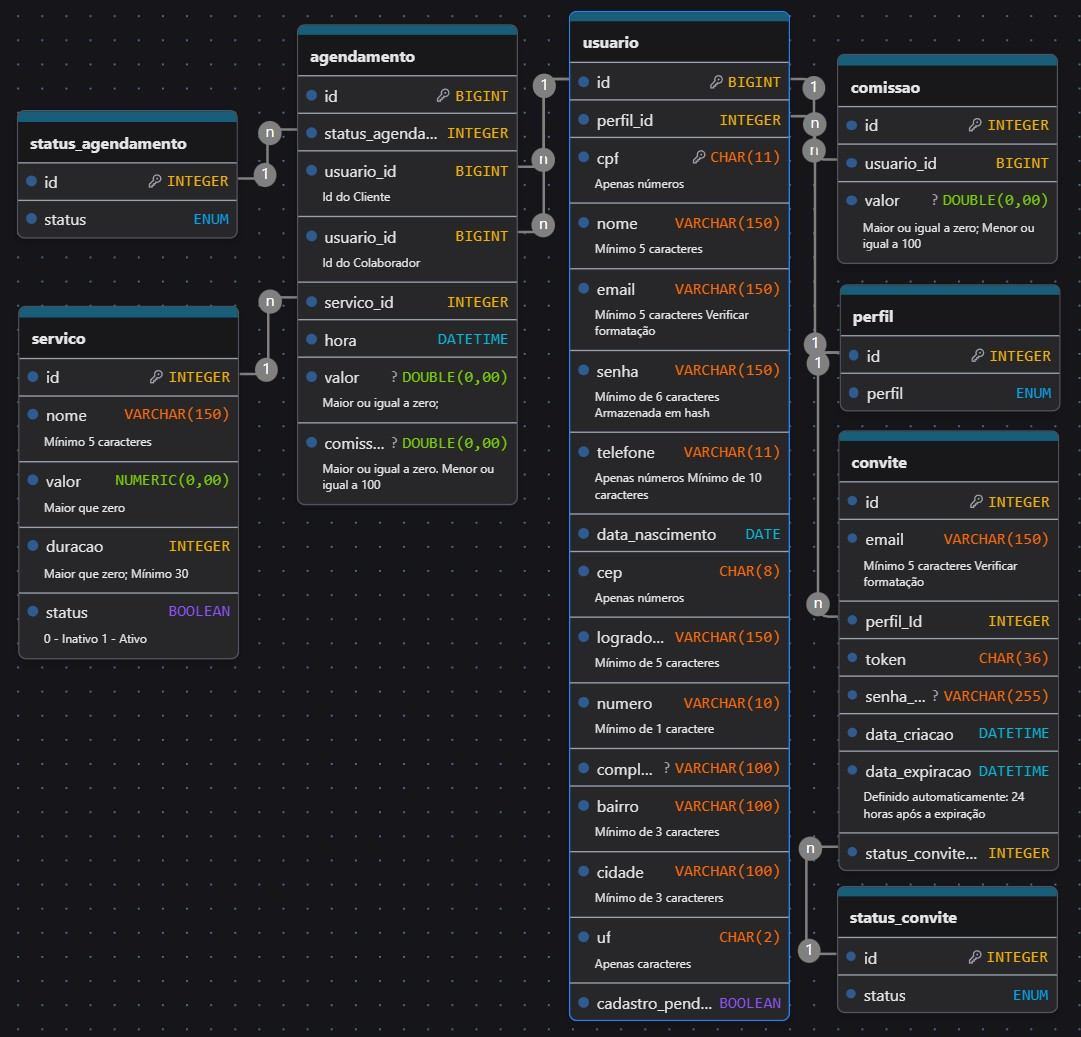
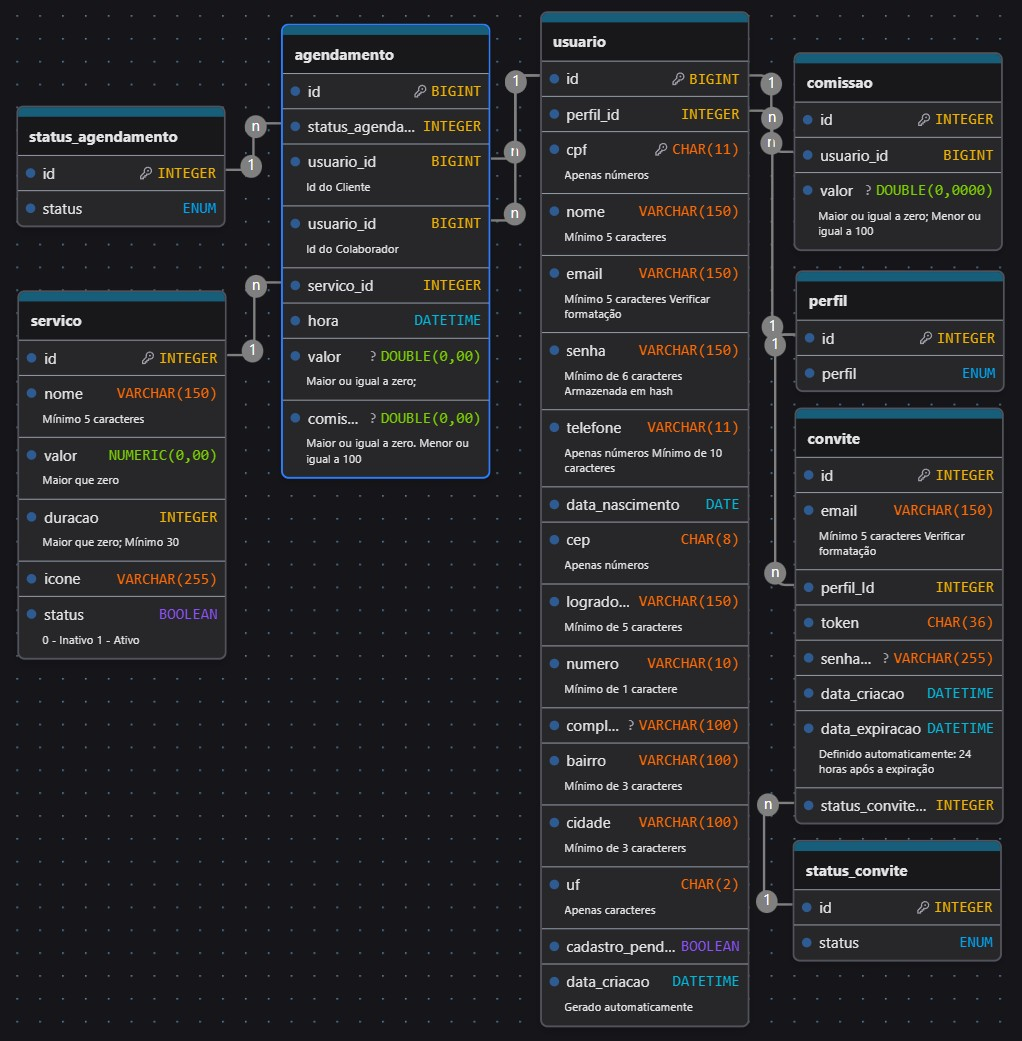
Inicia a implementação da API de Agendamentos

Changed region(s): [[0.0, 0.0, 1.0, 0.9875], [0.455, 0.0, 0.4853, 0.0309], [0.3943, 0.0, 0.4247, 0.0309]]

diff --git a/src/back/src/main/java/com/servify/backend/entity/Agendamento.java b/src/back/src/main/java/com/servify/backend/entity/Agendamento.java
@@ -1,0 +1,124 @@
+package com.servify.backend.entity;
+
+import java.math.BigDecimal;
+import java.time.LocalDateTime;
+
+import com.servify.backend.enums.AgendamentoStatus;
+
+import jakarta.persistence.Column;
+import jakarta.persistence.Entity;
+import jakarta.persistence.EnumType;
+import jakarta.persistence.Enumerated;
+import jakarta.persistence.GeneratedValue;
+import jakarta.persistence.GenerationType;
+import jakarta.persistence.Id;
+import jakarta.persistence.JoinColumn;
+import jakarta.persistence.ManyToOne;
+
+@Entity
+public class Agendamento {
+
+    @Id
+    @GeneratedValue(strategy = GenerationType.IDENTITY)
+    private Long id;
+
+    @Enumerated(EnumType.STRING)
+    @Column(nullable = false)
+    private AgendamentoStatus agendamentoStatus;
+
+    @ManyToOne
+    @JoinColumn(name = "cliente_id", nullable = false)
+    private Usuario cliente;
+
+    @ManyToOne
+    @JoinColumn(name = "colaborador_id", nullable = false)
+    private Usuario colaborador;
+
+    @ManyToOne
+    @JoinColumn(name = "servico_id", nullable = false)
+    private Servico servico;
+
+    @Column(nullable = false)
+    private LocalDateTime dataHora;
+
+    @Column(nullable = false, precision = 10, scale = 2)
+    private BigDecimal valor;
+
+    @Column(nullable = false, precision = 10, scale = 2)
+    private BigDecimal desconto;
+
+    @Column(nullable = false, precision = 5, scale = 4)
+    private BigDecimal comissao;
+
+    public Long getId() {
+        return id;
+    }
+
+    public void setId(Long id) {
+        this.id = id;
+    }
+
+    public AgendamentoStatus getAgendamentoStatus() {
+        return agendamentoStatus;
+    }
+
+    public void setAgendamentoStatus(AgendamentoStatus agendamentoStatus) {
+        this.agendamentoStatus = agendamentoStatus;
+    }
+
+    public Usuario getCliente() {
+        return cliente;
+    }
+
+    public void setCliente(Usuario cliente) {
+        this.cliente = cliente;
+    }
+
+    public Usuario getColaborador() {
+        return colaborador;
+    }
+
+    public void setColaborador(Usuario colaborador) {
+        this.colaborador = colaborador;
+    }
+
+    public Servico getServico() {
+        return servico;
+    }
+
+    public void setServico(Servico servico) {
+        this.servico = servico;
+    }
+
+    public LocalDateTime getDataHora() {
+        return dataHora;
+    }
+
+    public void setDataHora(LocalDateTime dataHora) {
+        this.dataHora = dataHora;
+    }
+
+    public BigDecimal getValor() {
+        return valor;
+    }
+
+    public void setValor(BigDecimal valor) {
+        this.valor = valor;
+    }
+
+    public BigDecimal getDesconto() {
+        return desconto;
+    }
+
+    public void setDesconto(BigDecimal desconto) {
+        this.desconto = desconto;
+    }
+
+    public BigDecimal getComissao() {
+        return comissao;
+    }
+
+    public void setComissao(BigDecimal comissao) {
+        this.comissao = comissao;
+    }
+}

diff --git a/src/back/src/main/java/com/servify/backend/service/AgendamentoService.java b/src/back/src/main/java/com/servify/backend/service/AgendamentoService.java
@@ -1,0 +1,67 @@
+package com.servify.backend.service;
+
+import java.time.LocalDate;
+import java.util.List;
+
+import com.servify.backend.constants.PerfilConstants;
+import com.servify.backend.dto.AgendamentoRequestDTO;
+import com.servify.backend.dto.AgendamentoResponseDTO;
+import com.servify.backend.entity.Servico;
+import com.servify.backend.entity.Usuario;
+import com.servify.backend.enums.AgendamentoStatus;
+import com.servify.backend.repository.AgendamentoRepository;
+import com.servify.backend.repository.ServicoRepository;
+import com.servify.backend.repository.UsuarioRepository;
+
+public class AgendamentoService {
+
+    private final AgendamentoRepository agendamentoRepository;
+    private final UsuarioRepository usuarioRepository;
+    private final ServicoRepository servicoRepository;
+
+    public AgendamentoService(AgendamentoRepository agendamentoRepository,
+            UsuarioRepository usuarioRepository,
+            ServicoRepository servicoRepository) {
+        this.agendamentoRepository = agendamentoRepository;
+        this.usuarioRepository = usuarioRepository;
+        this.servicoRepository = servicoRepository;
+    }
+
+    public AgendamentoResponseDTO criar(AgendamentoRequestDTO dto) {
+        Usuario cliente = usuarioRepository.findById(dto.clienteId())
+                .orElseThrow(() -> new RuntimeException("Cliente não encontrado"));
+
+        Usuario colaborador = usuarioRepository.findById(dto.colaboradorId())
+                .orElseThrow(() -> new RuntimeException("Colaborador não encontrado"));
+
+        if (colaborador.getPerfil().getId() != PerfilConstants.COLABORADOR) {
+            throw new RuntimeException("Usuário informado não é um colaborador");
+        }
+
+        Servico servico = servicoRepository.findById(dto.servicoId())
+                .orElseThrow(() -> new RuntimeException("Serviço não encontrado"));
+
+        return null;
+    }
+
+    public List<AgendamentoResponseDTO> listar(LocalDate inicio, LocalDate fim, Long clienteId,
+            Long colaboradorId, AgendamentoStatus status) {
+        // TODO Auto-generated method stub
+        throw new UnsupportedOperationException("Unimplemented method 'listar'");
+    }
+
+    public AgendamentoResponseDTO buscarPorId(Long id) {
+        // TODO Auto-generated method stub
+        throw new UnsupportedOperationException("Unimplemented method 'buscarPorId'");
+    }
+
+    public AgendamentoResponseDTO atualizar(Long id, AgendamentoRequestDTO dto) {
+        // TODO Auto-generated method stub
+        throw new UnsupportedOperationException("Unimplemented method 'atualizar'");
+    }
+
+    public void deletar(Long id) {
+        // TODO Auto-generated method stub
+        throw new UnsupportedOperationException("Unimplemented method 'deletar'");
+    }
+}

diff --git a/src/back/src/main/java/com/servify/backend/controller/AgendamentoController.java b/src/back/src/main/java/com/servify/backend/controller/AgendamentoController.java
@@ -1,0 +1,69 @@
+package com.servify.backend.controller;
+
+import org.springframework.web.bind.annotation.PostMapping;
+import org.springframework.web.bind.annotation.RequestBody;
+import org.springframework.web.bind.annotation.RequestMapping;
+import org.springframework.web.bind.annotation.RestController;
+
+import com.servify.backend.dto.AgendamentoRequestDTO;
+import com.servify.backend.dto.AgendamentoResponseDTO;
+import com.servify.backend.enums.AgendamentoStatus;
+import com.servify.backend.service.AgendamentoService;
+
+import jakarta.validation.Valid;
+
+import java.time.LocalDate;
+import java.util.List;
+
+import org.springframework.web.bind.annotation.DeleteMapping;
+import org.springframework.web.bind.annotation.GetMapping;
+import org.springframework.web.bind.annotation.RequestParam;
+import org.springframework.web.bind.annotation.PutMapping;
+import org.springframework.web.bind.annotation.PathVariable;
+
+@RestController
+@RequestMapping("/agendamentos")
+public class AgendamentoController {
+
+    private final AgendamentoService service;
+
+    public AgendamentoController(AgendamentoService service) {
+        this.service = service;
+    }
+
+    @PostMapping
+    public AgendamentoResponseDTO criar(@Valid @RequestBody AgendamentoRequestDTO dto) {
+        return service.criar(dto);
+    }
+
+    @GetMapping
+    public List<AgendamentoResponseDTO> listar(
+            @RequestParam(required = false) LocalDate inicio,
+            @RequestParam(required = false) LocalDate fim,
+            @RequestParam(required = false) Long clienteId,
+            @RequestParam(required = false) Long colaboradorId,
+            @RequestParam(required = false) AgendamentoStatus status) {
+
+        return service.listar(
+                inicio,
+                fim,
+                clienteId,
+                colaboradorId,
+                status);
+    }
+
+    @GetMapping("/{id}")
+    public AgendamentoResponseDTO buscar(@RequestParam Long id) {
+        return service.buscarPorId(id);
+    }
+
+    @PutMapping("/{id}")
+    public AgendamentoResponseDTO editar(@PathVariable Long id, @RequestBody AgendamentoRequestDTO dto) {
+        return service.atualizar(id, dto);
+    }
+
+    @DeleteMapping("/{id}")
+    public void deletar(@PathVariable Long id) {
+        service.deletar(id);
+    }
+}

diff --git a/src/back/src/main/java/com/servify/backend/dto/AgendamentoResponseDTO.java b/src/back/src/main/java/com/servify/backend/dto/AgendamentoResponseDTO.java
@@ -1,0 +1,32 @@
+package com.servify.backend.dto;
+
+import java.math.BigDecimal;
+import java.time.LocalDateTime;
+
+public record AgendamentoResponseDTO(
+
+        Long id,
+
+        String status,
+
+        Long clienteId,
+        String clienteNome,
+
+        Long colaboradorId,
+        String colaboradorNome,
+
+        Long servicoId,
+        String servicoNome,
+
+        LocalDateTime dataHora,
+
+        BigDecimal valor,
+
+        BigDecimal desconto,
+
+        BigDecimal valorFinal,
+
+        BigDecimal comissao
+
+) {
+}

diff --git a/src/back/src/main/java/com/servify/backend/dto/AgendamentoRequestDTO.java b/src/back/src/main/java/com/servify/backend/dto/AgendamentoRequestDTO.java
@@ -1,0 +1,22 @@
+package com.servify.backend.dto;
+
+import java.math.BigDecimal;
+import java.time.LocalDateTime;
+
+import jakarta.validation.constraints.DecimalMin;
+import jakarta.validation.constraints.NotNull;
+
+public record AgendamentoRequestDTO(
+
+        @NotNull Long clienteId,
+
+        @NotNull Long colaboradorId,
+
+        @NotNull Long servicoId,
+
+        @NotNull LocalDateTime dataHora,
+
+        @DecimalMin("0.00") BigDecimal desconto
+
+) {
+}

diff --git a/src/back/src/main/java/com/servify/backend/repository/AgendamentoRepository.java b/src/back/src/main/java/com/servify/backend/repository/AgendamentoRepository.java
@@ -1,0 +1,14 @@
+package com.servify.backend.repository;
+
+import java.time.LocalDateTime;
+import java.util.List;
+
+import org.springframework.data.jpa.repository.JpaRepository;
+
+import com.servify.backend.entity.Agendamento;
+
+public interface AgendamentoRepository extends JpaRepository<Agendamento, Long> {
+    List<Agendamento> findByDataHoraBetween(
+            LocalDateTime inicio,
+            LocalDateTime fim);
+}

diff --git a/src/back/src/main/java/com/servify/backend/enums/AgendamentoStatus.java b/src/back/src/main/java/com/servify/backend/enums/AgendamentoStatus.java
@@ -1,0 +1,17 @@
+package com.servify.backend.enums;
+
+public enum AgendamentoStatus {
+    AGENDADO("Agendado"),
+    CONCLUIDO("Concluído"),
+    CANCELADO("Cancelado");
+
+    private final String descricao;
+
+    private AgendamentoStatus(String descricao) {
+        this.descricao = descricao;
+    }
+
+    public String toString() {
+        return descricao;
+    }
+}
